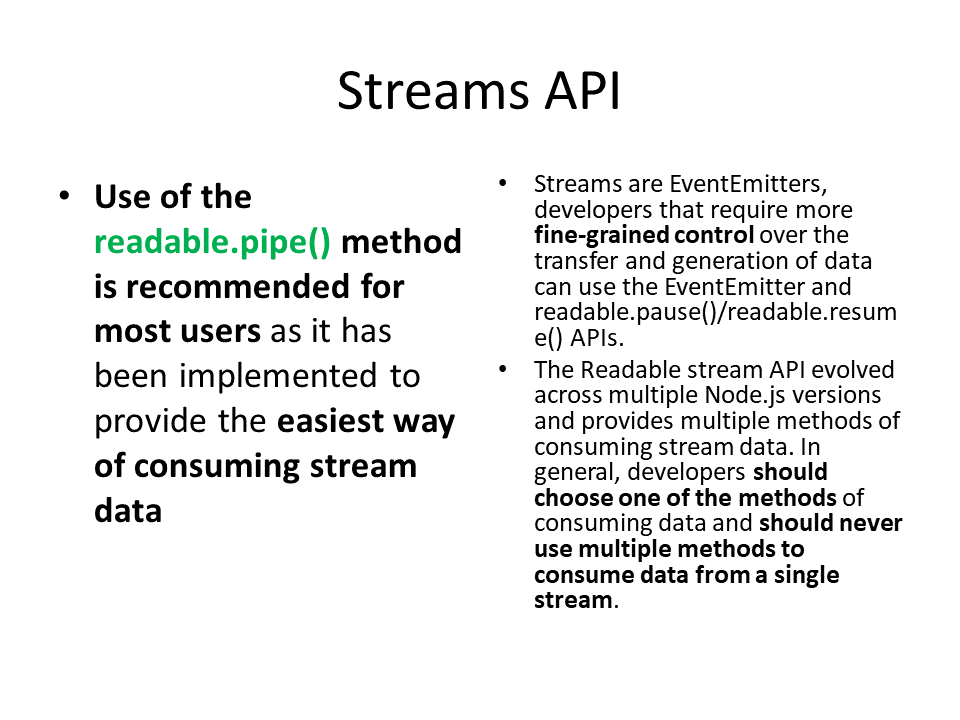
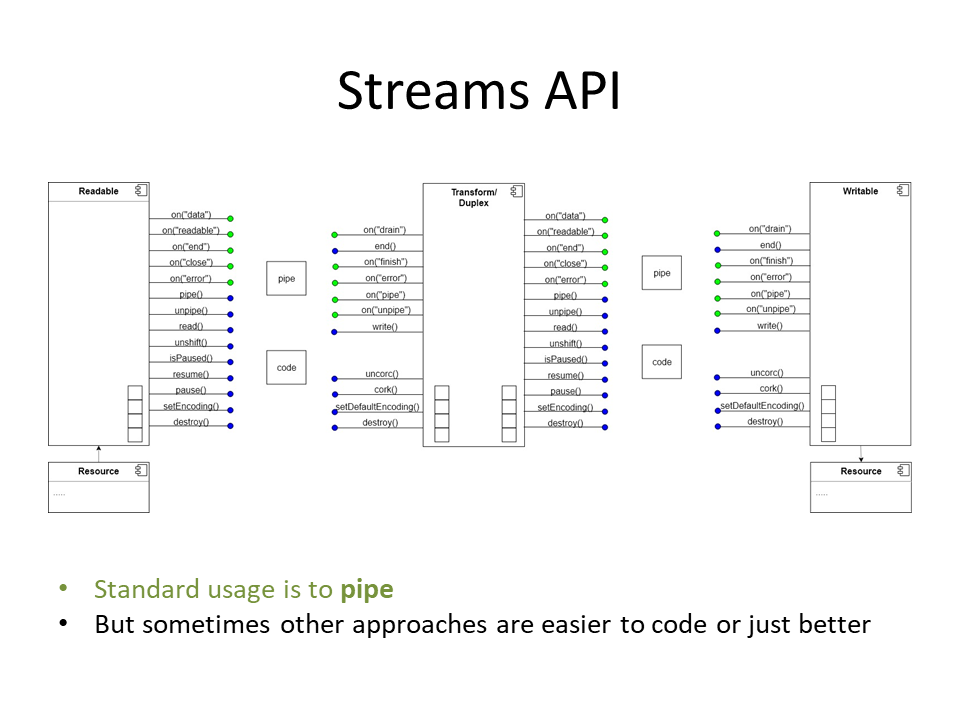
streams part 2

Changed region(s): [[0.0625, 0.2444, 0.9688, 0.8861]]

diff --git a/07_streamy.md b/07_streamy.md
@@ -13,15 +13,16 @@
 ## Types of streams
 ![](images/07-types-of-streams.png)
 
-## Streams API
-![](images/07-streams-api.png)
-![](images/07-streams-api-implementing.png)
+## Pipe
+![](images/07-pipe.png)
+![](images/07-pipe-implementing.png)
 
-## Backpressure
+### Backpressure
 ![](images/07-backpressure.png)
 ![](images/07-backpressure1.png)
+![](images/07-backpressure2.png)
 
-## Error handling
+### Error handling
 
 ![](images/07-error-handling.png)
 ![](images/07-error-handling1.png)
@@ -31,5 +32,32 @@ Akonahle pajpujeme 2 3 4 streamy, uz je tazky error handling. Ak nastane chyba, 
 
 ![](images/07-error-handling-pipeline.png)
 
-## Object streams
+### Object streams
 ![](images/07-object-streams.png)
+
+## Streams API
+![](images/07-streams-api.png)
+![](images/07-pipe-vs-api.png)
+
+### Readable
+![](images/07-api-reading.png)
+
+**Close event**
+![](images/07-readable-close-event.png)
+
+### Writable
+![](images/07-writable.png)
+
+### Encoding
+![](images/07-encoding.png)
+![](images/07-encoding2.png)
+
+## Buffer
+![](images/07-buffer.png)
+
+### API
+
+`buffer.slice`
+- Returns a new Buffer that references the same memory as the original, but offset and cropped by the start and end indices.
+
+
